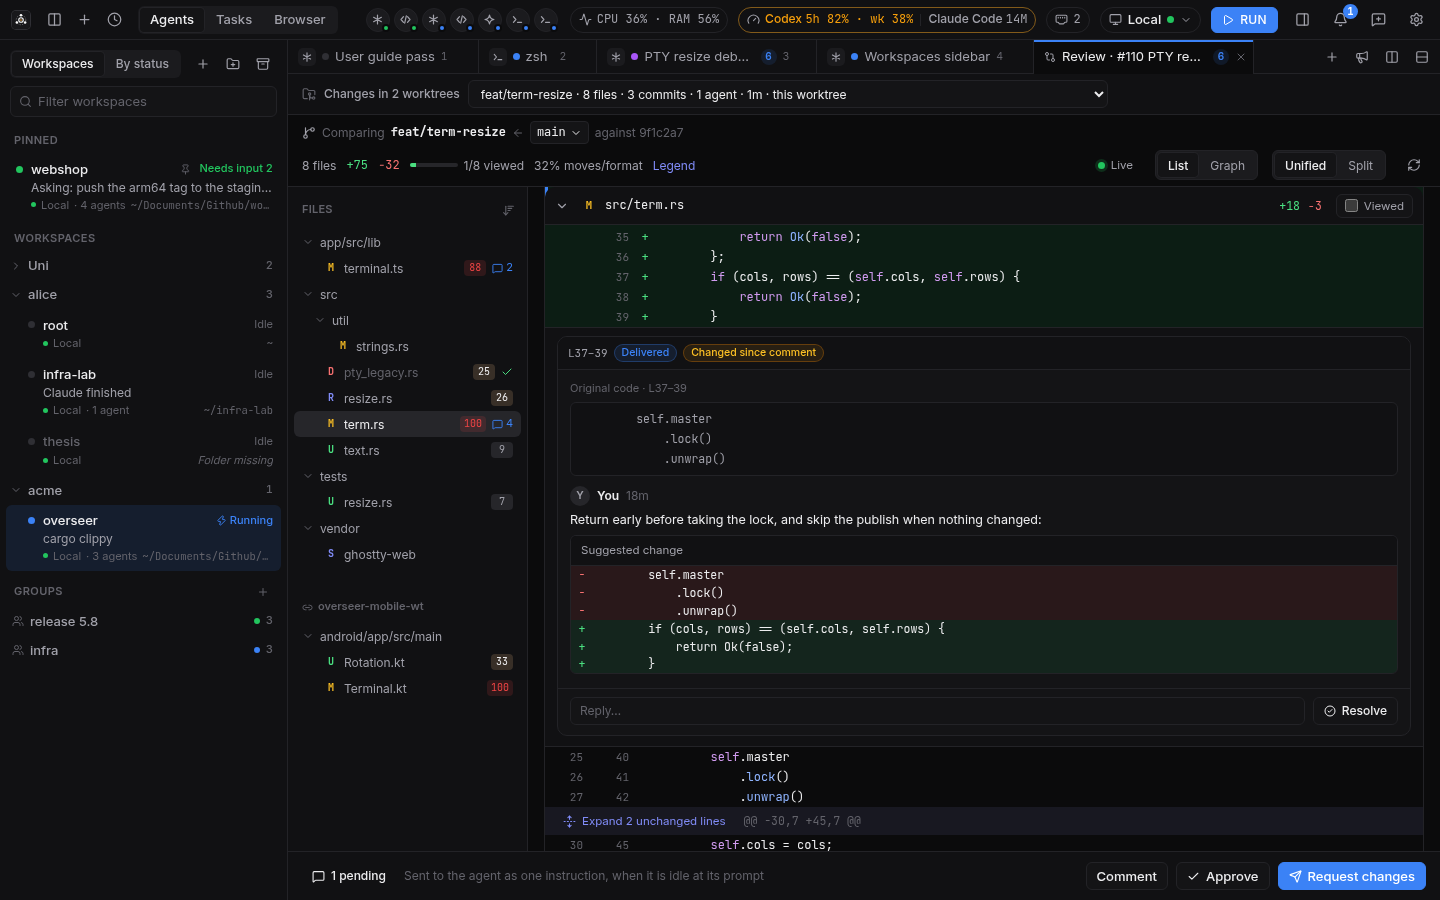
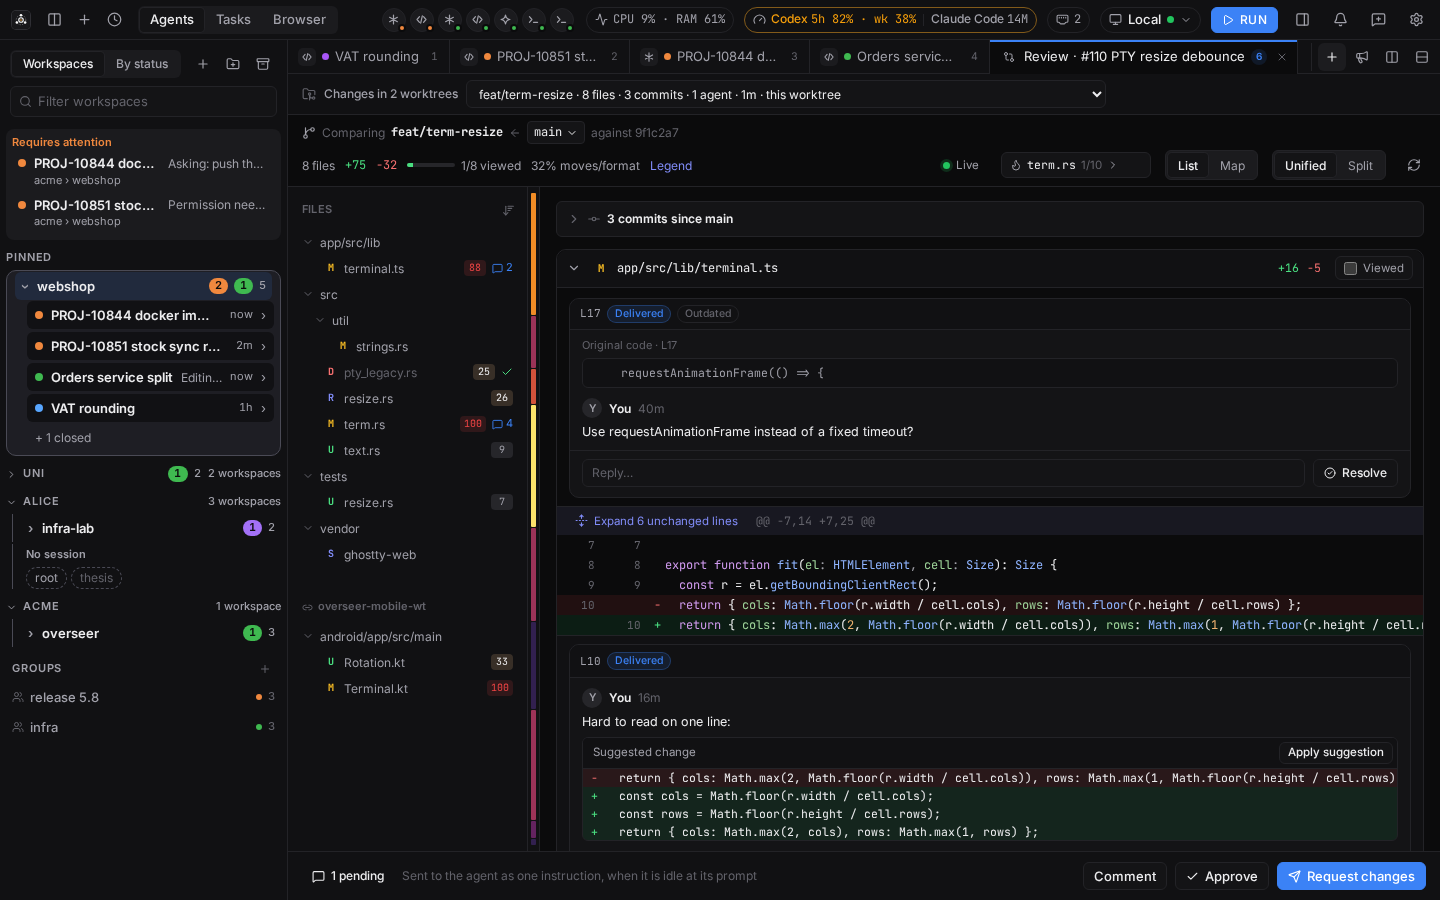
fix(review): keep the hovered file bright on the map; screenshots and tour

diff --git a/app/src/lib/components/review/ReviewView.map.test.ts b/app/src/lib/components/review/ReviewView.map.test.ts
@@ -4,6 +4,11 @@ import map from './MapView.svelte?raw';
 import band from './HeatBand.svelte?raw';
 
 describe('review map wiring', () => {
+  it('keeps the hovered or pinned file bright while the rest of the map fades', () => {
+    expect(map).toMatch(/class:sel=\{c\.id === focus \|\| \(selected === c\.id && !!\(pinned \|\| current\)\)\}/);
+    expect(map).toMatch(/\.canvas\.focus \.cell:not\(\.sel\):not\(\.near\) \{\s*opacity: 0\.32;/);
+  });
+
   it('offers List and Map, with the tour anchored on the switch, and no graph view left', () => {
     expect(view).toMatch(/\{ value: 'map' as const, label: t\('review\.map'\) \}/);
     expect(view).toMatch(/<span class="vseg" data-tour="review-map">/);

diff --git a/app/src/lib/components/review/MapView.svelte b/app/src/lib/components/review/MapView.svelte
@@ -103,7 +103,7 @@
                 {@const v = s.score[ind]}
                 <button
                   class="cell hot"
-                  class:sel={selected === c.id && (pinned || current)}
+                  class:sel={c.id === focus || (selected === c.id && !!(pinned || current))}
                   class:near={near.has(c.id)}
                   style:left="{c.x}px"
                   style:top="{c.y}px"

diff --git a/README.md b/README.md
@@ -98,6 +98,7 @@ radius, contract changes, where the agent struggled, untested or not yet seen co
 walk the files hottest first.
 
 ![Live review](app/docs/screenshots/review-light.png)
+![Review map](app/docs/screenshots/review-map-dark.png)
 
 <details>
 <summary>A review thread with a suggestion</summary>
